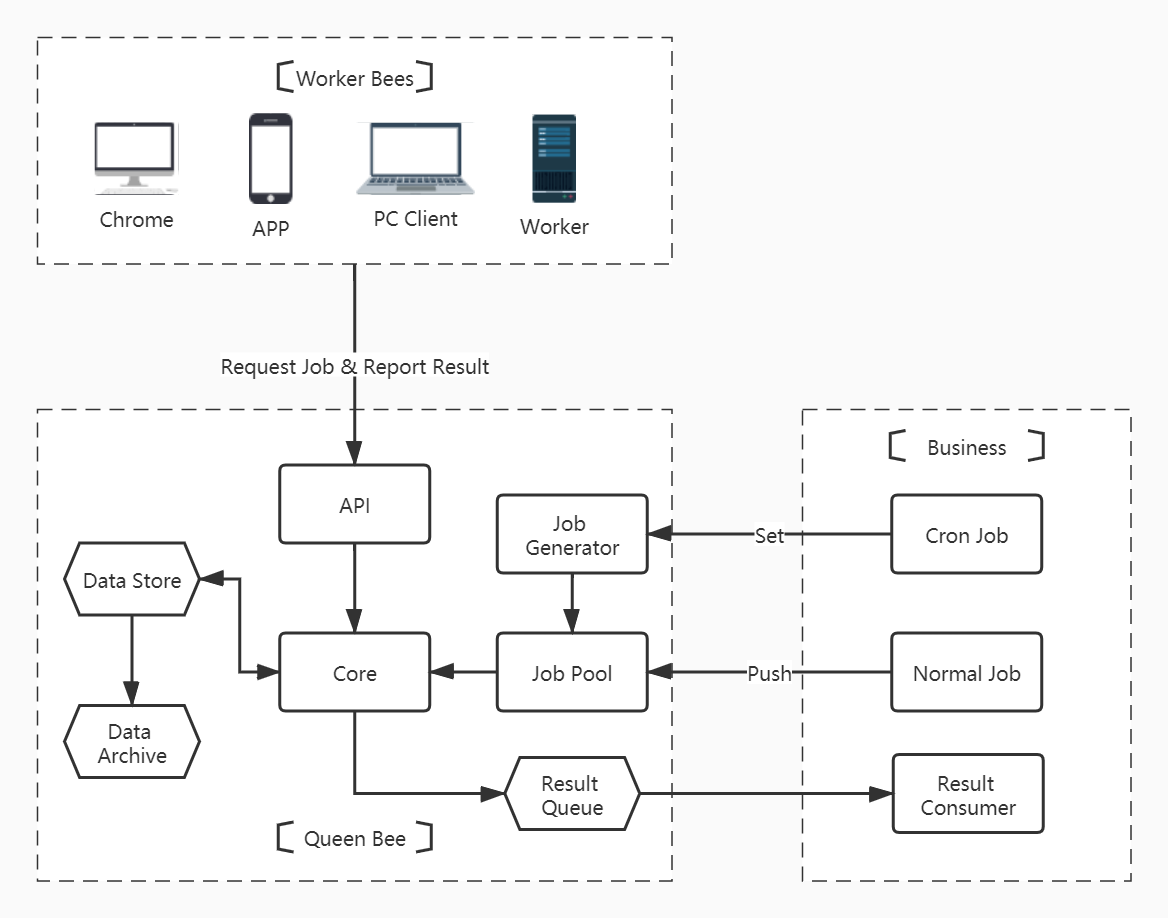
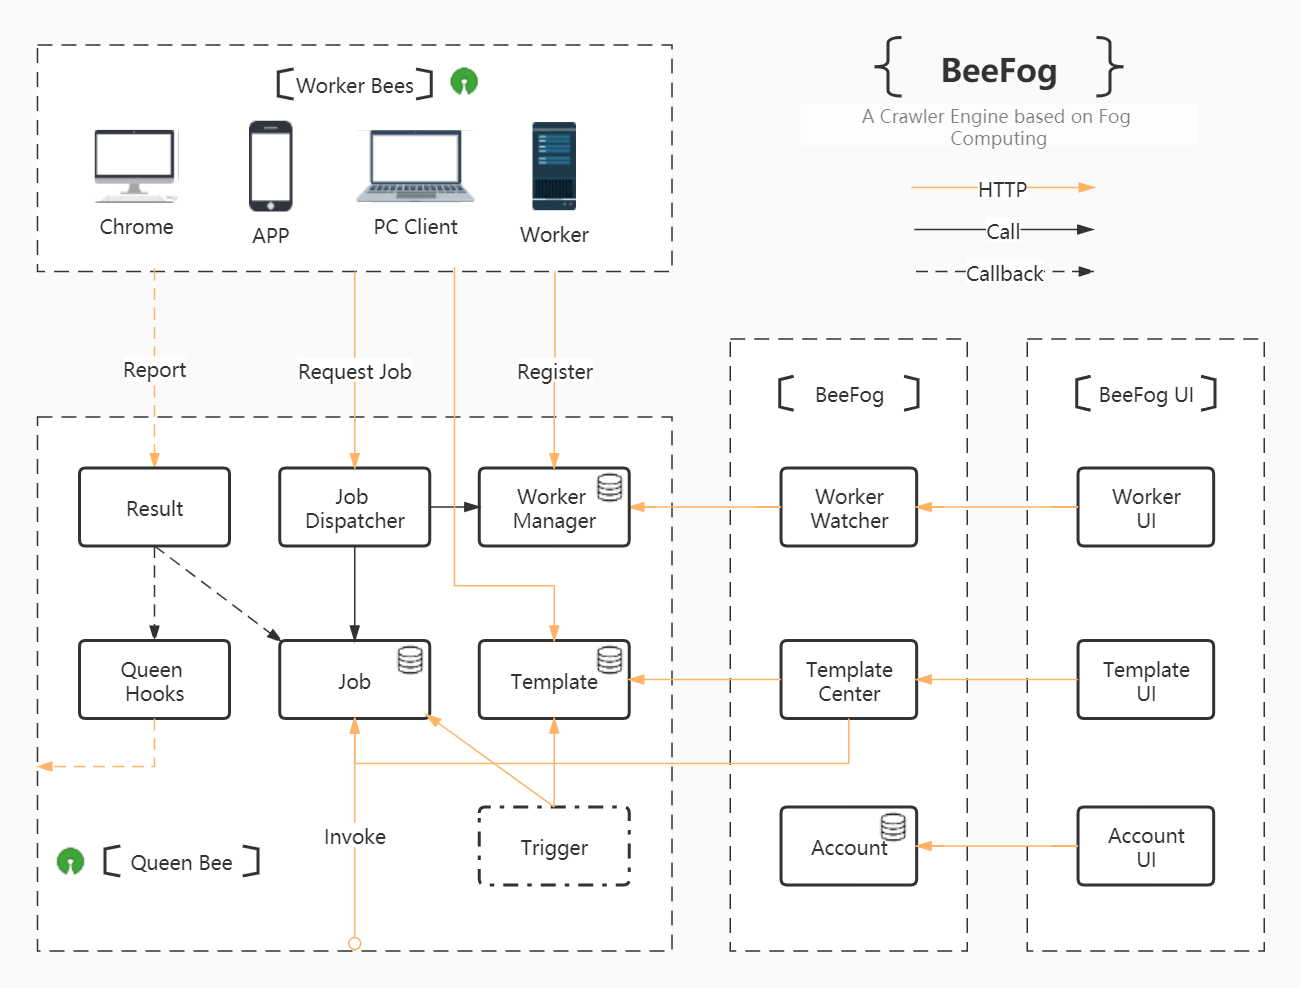
new arch intro

diff --git a/docs/content/zh/docs/6-contribute/30-worker-manager.md b/docs/content/zh/docs/6-contribute/30-worker-manager.md
@@ -1,0 +1,12 @@
+---
+title: Worker Manager
+slug: worker-manager
+weight: 30
+description: >
+  工作节点管理器
+---
+
+## 主要工作
+
+- 一个测速接口让节点可以测速决定连接哪个区域的 Queen
+- 一个注册接口让节点可以在启动是简单上报自己的情况
